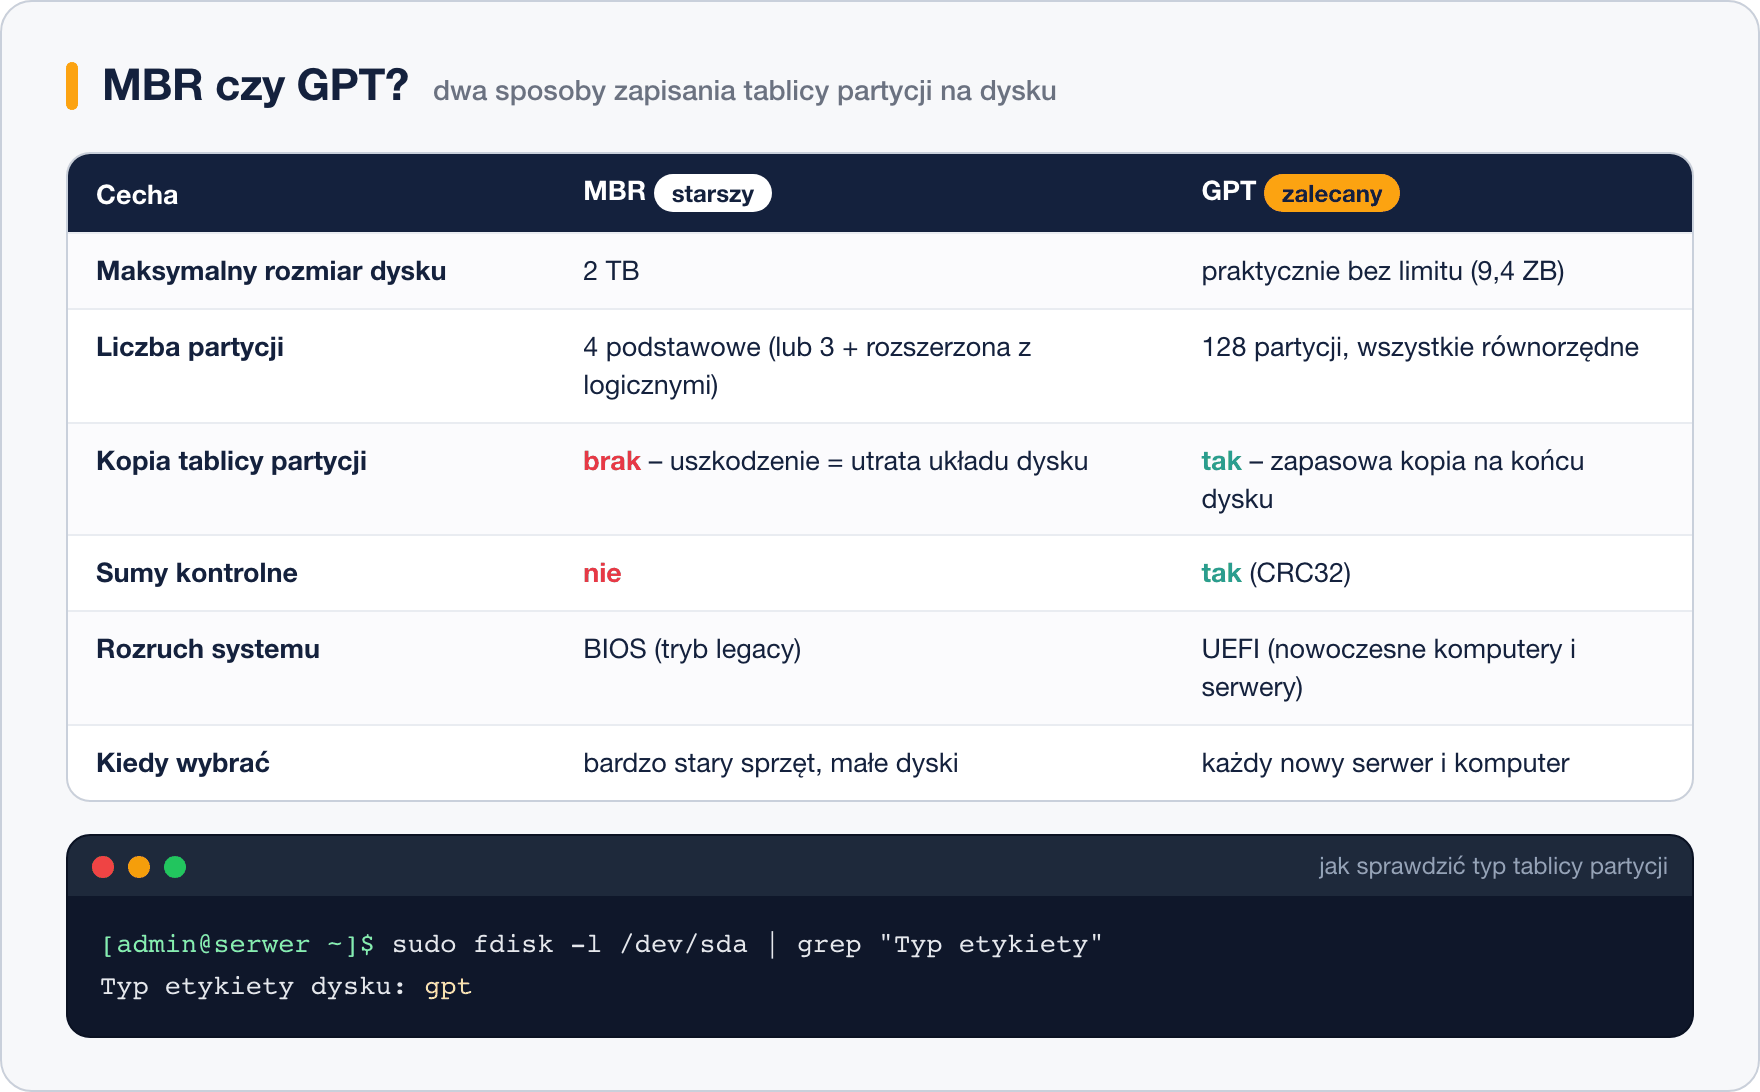
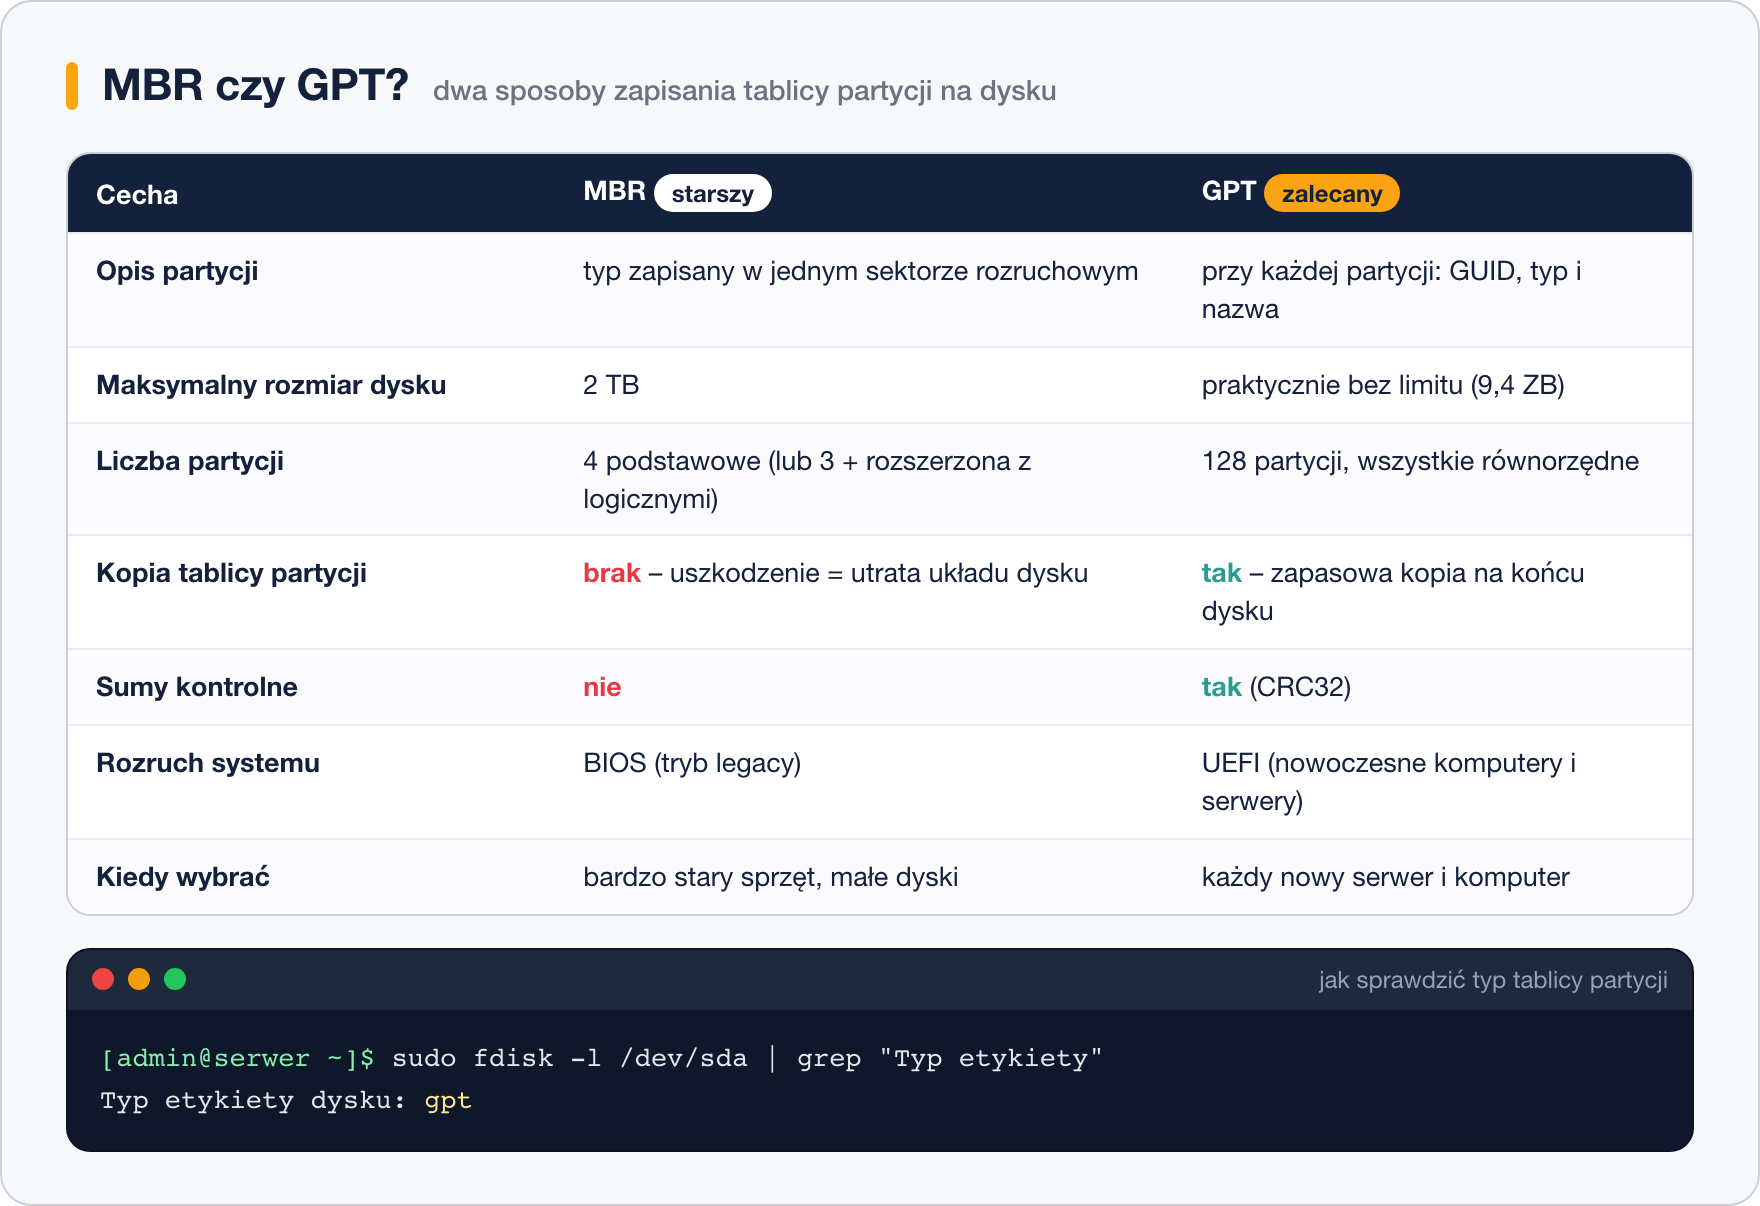
Tablice partycji: schemat budowy MBR i GPT ze starych materiałów
Stare zdjęcie „MBR vs GPT Structure” (commit 347f83f, grafiki/
2_03_2_mbrvsgpt.png) przerobione na grafikę repozytorium
3-1-budowa-mbr-gpt: oba formaty na osi dysku, po polsku.

MBR: pierwszy sektor rozbity na kod rozruchowy 446 B, tablicę 64 B
(cztery wpisy po 16 B) i sygnaturę 0x55AA, dalej partycje podstawowe
i rozszerzona z logicznymi od sda5. GPT: ochronny MBR w sektorze 0,
nagłówek, wpisy 1-128, partycje i kopia nagłówka oraz wpisów na końcu
dysku.

W lekcji doszedł rozbiór 512 bajtów MBR i sekcja „Budowa obu tablic
obok siebie”, która czyta schemat punkt po punkcie.

Z drugiego starego zdjęcia (tabela porównawcza) do grafiki
3-1-mbr-vs-gpt dołożony brakujący wiersz: gdzie zapisany jest opis
typu partycji.

diff --git a/grafiki/zrodla/3-1-budowa-mbr-gpt.html b/grafiki/zrodla/3-1-budowa-mbr-gpt.html
@@ -1,0 +1,70 @@
+<!doctype html>
+<html lang="pl"><head><meta charset="utf-8"><link rel="stylesheet" href="_styl.css"></head>
+<body>
+<div id="grafika" class="grafika szeroka">
+  <div class="tytul"><h1>Co dokładnie leży na dysku</h1><span class="pod">budowa tablicy partycji MBR i GPT, od początku do końca dysku</span></div>
+
+  <!-- MBR -->
+  <div style="display:flex;align-items:center;gap:14px">
+    <div style="flex:0 0 54px;font-size:17px;font-weight:800;color:var(--granat)">MBR</div>
+    <div style="flex:1">
+      <div style="display:flex;gap:6px;margin-bottom:6px">
+        <div style="flex:0 0 330px;font-size:11.5px;font-weight:700;color:var(--szary-4);text-align:center;border-bottom:2px solid var(--granat);padding-bottom:3px">pierwszy sektor dysku – 512 bajtów</div>
+        <div style="flex:1;font-size:11.5px;font-weight:700;color:var(--szary-4);text-align:center;border-bottom:2px solid var(--bursztyn);padding-bottom:3px">obszar danych – partycje</div>
+      </div>
+      <div style="display:flex;gap:6px;align-items:stretch">
+        <div style="flex:0 0 108px;background:var(--granat);color:#fff;border-radius:8px;padding:12px 6px;text-align:center;font-size:12px;font-weight:700">Kod rozruchowy<br><span style="font-weight:500;font-size:11px;color:#c9d0db">446 B</span></div>
+        <div style="flex:0 0 174px;border:2px solid var(--granat-2);border-radius:8px;padding:5px;background:#eef1f7">
+          <div style="font-size:10.5px;font-weight:700;color:var(--granat-2);text-align:center;margin-bottom:4px">Tablica partycji – 64 B</div>
+          <div style="display:flex;gap:4px">
+            <div style="flex:1;background:var(--granat-2);color:#fff;border-radius:5px;padding:7px 2px;text-align:center;font-size:11px;font-weight:700">1</div>
+            <div style="flex:1;background:var(--granat-2);color:#fff;border-radius:5px;padding:7px 2px;text-align:center;font-size:11px;font-weight:700">2</div>
+            <div style="flex:1;background:var(--granat-2);color:#fff;border-radius:5px;padding:7px 2px;text-align:center;font-size:11px;font-weight:700">3</div>
+            <div style="flex:1;background:var(--granat-2);color:#fff;border-radius:5px;padding:7px 2px;text-align:center;font-size:11px;font-weight:700">4</div>
+          </div>
+        </div>
+        <div style="flex:0 0 36px;background:var(--szary-2);border-radius:8px;padding:12px 2px;text-align:center;font-size:10.5px;font-weight:700;color:var(--granat)">55<br>AA</div>
+        <div style="flex:0.95;background:#fde3b3;border-radius:8px;padding:14px 6px;text-align:center;font-size:12.5px;font-weight:700">sda1<br><span style="font-weight:500;font-size:11px;color:var(--szary-4)">podstawowa</span></div>
+        <div style="flex:0.95;background:#fde3b3;border-radius:8px;padding:14px 6px;text-align:center;font-size:12.5px;font-weight:700">sda2<br><span style="font-weight:500;font-size:11px;color:var(--szary-4)">podstawowa</span></div>
+        <div style="flex:0.95;background:#fde3b3;border-radius:8px;padding:14px 6px;text-align:center;font-size:12.5px;font-weight:700">sda3<br><span style="font-weight:500;font-size:11px;color:var(--szary-4)">podstawowa</span></div>
+        <div style="flex:2.2;border:2px dashed var(--fiolet);border-radius:8px;padding:5px;background:#f6f4ff">
+          <div style="font-size:10.5px;font-weight:700;color:var(--fiolet);text-align:center;margin-bottom:4px">sda4 – partycja rozszerzona</div>
+          <div style="display:flex;gap:4px">
+            <div style="flex:1;background:#cdeae6;border-radius:5px;padding:7px 2px;text-align:center;font-size:11.5px;font-weight:700">sda5</div>
+            <div style="flex:1;background:#cdeae6;border-radius:5px;padding:7px 2px;text-align:center;font-size:11.5px;font-weight:700">sda6</div>
+            <div style="flex:1;background:#cdeae6;border-radius:5px;padding:7px 2px;text-align:center;font-size:11.5px;font-weight:700">sda7</div>
+          </div>
+        </div>
+      </div>
+      <div class="male" style="margin-top:6px">Cztery miejsca w tablicy, jedna kopia. Partycje logiczne (<code>sda5</code>+) mieszczą się w rozszerzonej i numerowane są od 5.</div>
+    </div>
+  </div>
+
+  <div class="odstep"></div>
+
+  <!-- GPT -->
+  <div style="display:flex;align-items:center;gap:14px">
+    <div style="flex:0 0 54px;font-size:17px;font-weight:800;color:var(--granat)">GPT</div>
+    <div style="flex:1">
+      <div style="display:flex;gap:6px;margin-bottom:6px">
+        <div style="flex:0 0 318px;font-size:11.5px;font-weight:700;color:var(--szary-4);text-align:center;border-bottom:2px solid var(--granat);padding-bottom:3px">początek dysku – tablica główna</div>
+        <div style="flex:1;font-size:11.5px;font-weight:700;color:var(--szary-4);text-align:center;border-bottom:2px solid var(--bursztyn);padding-bottom:3px">obszar danych – partycje</div>
+        <div style="flex:0 0 186px;font-size:11.5px;font-weight:700;color:var(--szary-4);text-align:center;border-bottom:2px solid var(--morski);padding-bottom:3px">koniec dysku – kopia</div>
+      </div>
+      <div style="display:flex;gap:6px;align-items:stretch">
+        <div style="flex:0 0 104px;background:var(--szary-2);border-radius:8px;padding:12px 4px;text-align:center;font-size:11.5px;font-weight:700;color:var(--granat)">Ochronny MBR<br><span style="font-weight:500;font-size:10.5px;color:var(--szary-4)">sektor 0</span></div>
+        <div style="flex:0 0 96px;background:var(--granat);color:#fff;border-radius:8px;padding:12px 4px;text-align:center;font-size:11.5px;font-weight:700">Nagłówek GPT<br><span style="font-weight:500;font-size:10.5px;color:#c9d0db">sektor 1</span></div>
+        <div style="flex:0 0 106px;background:var(--granat-2);color:#fff;border-radius:8px;padding:12px 4px;text-align:center;font-size:11.5px;font-weight:700">Wpisy 1–128<br><span style="font-weight:500;font-size:10.5px;color:#c9d0db">sektory 2–33</span></div>
+        <div style="flex:1;background:#fde3b3;border-radius:8px;padding:14px 4px;text-align:center;font-size:12.5px;font-weight:700">sda1<br><span style="font-weight:500;font-size:11px;color:var(--szary-4)">EFI</span></div>
+        <div style="flex:1;background:#fde3b3;border-radius:8px;padding:14px 4px;text-align:center;font-size:12.5px;font-weight:700">sda2<br><span style="font-weight:500;font-size:11px;color:var(--szary-4)">/boot</span></div>
+        <div style="flex:1.4;background:#fde3b3;border-radius:8px;padding:14px 4px;text-align:center;font-size:12.5px;font-weight:700">sda3 … sda128<br><span style="font-weight:500;font-size:11px;color:var(--szary-4)">wszystkie równorzędne</span></div>
+        <div style="flex:0 0 106px;background:#cdeae6;border-radius:8px;padding:12px 4px;text-align:center;font-size:11.5px;font-weight:700;color:var(--granat)">Kopia wpisów<br><span style="font-weight:500;font-size:10.5px;color:var(--szary-4)">1–128</span></div>
+        <div style="flex:0 0 74px;background:var(--morski);color:#fff;border-radius:8px;padding:12px 4px;text-align:center;font-size:11.5px;font-weight:700">Kopia nagłówka<br><span style="font-weight:500;font-size:10.5px;color:#e3f4f1">ostatni sektor</span></div>
+      </div>
+      <div class="male" style="margin-top:6px">128 równorzędnych wpisów, każdy z własnym identyfikatorem GUID i nazwą; nagłówek i tablica mają kopię na końcu dysku oraz sumy kontrolne CRC32.</div>
+    </div>
+  </div>
+
+  <div class="notatka">Ochronny MBR w sektorze 0 nie opisuje partycji – mówi starym narzędziom „cały dysk zajęty”, żeby nie uznały dysku GPT za pusty i go nie nadpisały.</div>
+</div>
+</body></html>

diff --git a/grafiki/zrodla/3-1-mbr-vs-gpt.html b/grafiki/zrodla/3-1-mbr-vs-gpt.html
@@ -5,6 +5,7 @@
   <div class="tytul"><h1>MBR czy GPT?</h1><span class="pod">dwa sposoby zapisania tablicy partycji na dysku</span></div>
   <table class="tabela">
     <tr><th style="width:30%">Cecha</th><th>MBR <span class="plakietka" style="background:#fff;color:var(--granat)">starszy</span></th><th>GPT <span class="plakietka bursztyn">zalecany</span></th></tr>
+    <tr><td>Opis partycji</td><td>typ zapisany w jednym sektorze rozruchowym</td><td>przy każdej partycji: GUID, typ i nazwa</td></tr>
     <tr><td>Maksymalny rozmiar dysku</td><td>2 TB</td><td>praktycznie bez limitu (9,4 ZB)</td></tr>
     <tr><td>Liczba partycji</td><td>4 podstawowe (lub 3 + rozszerzona z logicznymi)</td><td>128 partycji, wszystkie równorzędne</td></tr>
     <tr><td>Kopia tablicy partycji</td><td><span class="nie">brak</span> – uszkodzenie = utrata układu dysku</td><td><span class="tak">tak</span> – zapasowa kopia na końcu dysku</td></tr>

diff --git a/Dział 3 - Zarządzanie systemem Linux/1. Zarządzanie dyskami/3. Tablice partycji – MBR i GPT.md b/Dział 3 - Zarządzanie systemem Linux/1. Zarządzanie dyskami/3. Tablice partycji – MBR i GPT.md
@@ -18,7 +18,13 @@ Z wyborem między nimi spotkasz się przy każdym nowym dysku: to pierwsze pytan
 
 ### MBR – stary format
 
-**MBR** (ang. *Master Boot Record*, główny rekord rozruchowy) pochodzi z 1983 roku. Zajmuje pierwszy sektor dysku (512 bajtów), w którym mieści się mały program startowy i tablica z miejscem na **cztery** partycje. Ograniczenia:
+**MBR** (ang. *Master Boot Record*, główny rekord rozruchowy) pochodzi z 1983 roku. Mieści się w **pierwszym sektorze dysku**, czyli w 512 bajtach, podzielonych tak:
+
+- **446 bajtów** – kod rozruchowy, czyli pierwszy fragment programu uruchamiającego system,
+- **64 bajty** – właściwa tablica partycji: cztery wpisy po 16 bajtów, każdy opisuje jedną partycję,
+- **2 bajty** – sygnatura `0x55AA`, po której oprogramowanie układowe poznaje, że sektor jest poprawny.
+
+Z tego podziału biorą się wszystkie ograniczenia MBR:
 
 - maksymalny rozmiar dysku **2 TiB** (przy sektorach 512 B) – większy dysk będzie widziany tylko do tej granicy,
 - 4 partycje podstawowe; więcej tylko przez sztuczkę z partycją rozszerzoną (lekcja 4),
@@ -32,6 +38,20 @@ W narzędziach linuksowych MBR nazywa się też **„dos”** (`Disklabel type: 
 **GPT** (ang. *GUID Partition Table*) powstał razem z UEFI. Tablica zajmuje kilkadziesiąt sektorów na początku dysku, a jej **kopia zapasowa** leży na końcu. Każda partycja ma własny unikalny identyfikator (GUID) i nazwę. Ograniczenia praktycznie nie istnieją: dyski do zettabajtów, domyślnie 128 partycji, sumy kontrolne CRC32 wykrywają uszkodzenia.
 
 Pierwszy sektor dysku GPT nadal zawiera tzw. **ochronny MBR** – zapis „cały dysk zajęty”, dzięki któremu stare narzędzia nie uznają dysku za pusty i go nie nadpiszą.
+
+### Budowa obu tablic obok siebie
+
+Najłatwiej zobaczyć różnicę, układając oba formaty na osi dysku – od pierwszego sektora po ostatni:
+
+![Budowa MBR i GPT: pierwszy sektor z kodem rozruchowym i czterema wpisami kontra nagłówek GPT, 128 wpisów i ich kopia na końcu dysku](../../grafiki/3-1-budowa-mbr-gpt.png)
+
+Co z tego schematu wynika w praktyce:
+
+- **MBR trzyma wszystko w jednym sektorze.** Kod rozruchowy, cztery wpisy i sygnatura – razem 512 bajtów na samym początku dysku. Nie ma kopii: uszkodzenie tego jednego sektora to utrata informacji o układzie całego dysku.
+- **Czwarty wpis zwykle idzie na partycję rozszerzoną.** To pojemnik, w którym dopiero mieszczą się partycje logiczne (`sda5`, `sda6`…). Stąd „dziura” w numeracji – szczegóły w następnej lekcji.
+- **GPT zaczyna od ochronnego MBR.** Sektor 0 wygląda dla starych narzędzi jak zwykły MBR opisujący jeden wielki, zajęty obszar – właśnie po to, żeby niczego nie nadpisały.
+- **Właściwa tablica GPT to nagłówek i 128 wpisów.** Każdy wpis ma identyfikator GUID, typ, nazwę i zakres sektorów; wszystkie partycje są równorzędne, bez podziału na podstawowe i logiczne.
+- **Na końcu dysku leży pełna kopia.** Nagłówek i tablica wpisów są zapisane drugi raz, a sumy kontrolne CRC32 pozwalają wykryć uszkodzenie i odtworzyć tablicę z kopii.
 
 ![Porównanie MBR i GPT: rozmiar dysku, liczba partycji, kopia tablicy, sumy kontrolne, rozruch](../../grafiki/3-1-mbr-vs-gpt.png)
 

diff --git a/Dział 2 - Podstawy pracy z systemem Linux/1. Praca z powłoką Bash/1. Czym jest powłoka i terminal.md b/Dział 2 - Podstawy pracy z systemem Linux/1. Praca z powłoką Bash/1. Czym jest powłoka i terminal.md
@@ -56,7 +56,7 @@ różne pliki.
 
 Po zalogowaniu zobaczysz **znak zachęty** (ang. *prompt*), na przykład `[anna@serwer ~]$`. Znaczy on:
 „jestem gotowa, wpisz polecenie”. Co dokładnie mówią poszczególne części, rozbieramy w lekcji
-[Prompt – co mówi znak zachęty](4.%20Prompt%20–%20co%20mówi%20znak%20zachęty.md).
+[Prompt – co mówi znak zachęty](5.%20Prompt%20–%20co%20mówi%20znak%20zachęty.md).
 
 ### Pierwsze polecenia
 
